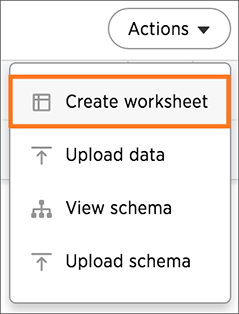
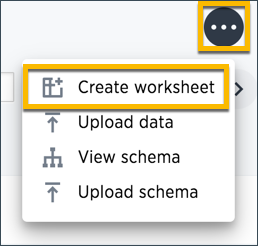
WIP Views

diff --git a/_complex-search/about-query-on-query.md b/_complex-search/about-query-on-query.md
@@ -7,13 +7,13 @@ summary: "If you want to search on top of another search, try saving your search
 sidebar: mydoc_sidebar
 permalink: /:collection/:path.html
 ---
-If you want to use the results of a search as the starting point for other searches, you can save the initial search as a view. Views are similar to tables. One important difference is that the search that makes up a view gets computed each time the view is used. However, you can materialize a view, so its data gets stored. When materialized, a view becomes much like a table, with the same fast performance users expect when searching.
+If you want to use the results of a search as the starting point for other searches, you can save the initial search as a view. Views are similar to tables. One important difference is that the search that makes up a view gets computed each time the view is used. However, you can [materialize a view]({{ site.baseurl }}/admin/loading/materialized_views.html), so its data gets stored in memory. When materialized, a view becomes much like a table, with the same fast performance users expect when searching.
 
 You may have noticed that when you do a search on a data source, ThoughtSpot is only able to aggregate one
 column by one other column. Because of this, you may come across searches you
 can't do in one pass, because they are essentially nested queries. But you can
 create the equivalent of nested queries using a view, which is
-essentially an answer that you have saved for the purpose of building other searches on top of it.
+an answer that you have saved for the purpose of building other searches on top of it.
 
 You can use a view just like any other data source. You
 can even link it to other sources by defining a relationship. When you save an
@@ -21,9 +21,9 @@ answer as a view, and then use it as a source in a new search, it is
 similar to doing a nested query in SQL, only much easier to create.
 
 To create a view, you must belong to a group that has the
-privilege **Has administration privileges** or **Can Manage Data**. If you are
+privilege **Can administer ThoughtSpot** or **Can manage data**. If you are
 not able to create views, contact your administrator and request
-the **Can Manage Data** privilege.
+the **Can manage data** privilege.
 
 ## View workflow
 
@@ -35,25 +35,21 @@ save your first answer as a view, certain explorations like this won't be
 possible. If you want to do this, here are the steps at a high level:
 
 1. Create the first search, and [save it as a view](create-aggregated-worksheet.html#).
-2. Link your view to any other data sources you'll need.
+2. [Link]({{ site.baseurl }}/admin/data_modeling/create-new-relationship.html#) your view to any other data sources you'll need or [define joins]({{ site.baseurl }}/admin/loading/constraints.html#}}).
 3. Create a new search that includes your view and the other sources you linked with it.
-4. You may want to create a new worksheet that includes all these data sources.
+4. You may want to [create a new worksheet]({{ site.baseurl }}/admin/worksheets/about-worksheets.html#}}) that includes all these data sources.
 
-    This will make it easier for people to search using your
+    Creating a worksheet will make it easier for people to search using your
     view and any related tables.
 
 ## Best practices for using views
 
-Only users with administrative privileges are able to create views and link them. Users that create views should keep in
-mind best practices for creating a worksheet and the boundaries around the final
+Only users with administrative or data management privileges can create views and link them. Users that create views should keep in mind best practices for creating a worksheet and the boundaries around the final
 worksheet size.
 
-You can't link a view with a sharded table. If you do this and
-try to search on it, you will get an error.
-
 To be able to join a view with a base table, your installation
-must be configured to allow the behavior. The view cannot have
-more than 5 tables involved. Moreover, the number of rows in the
+must be configured to allow this. The view cannot have
+more than 5 tables involved, and the number of rows in the
 view cannot be greater than 1000.
 
 The order of the objects being linked (joined) matters, this is because joins are
@@ -63,13 +59,14 @@ second (right) position.
 
 For the best performance, views should have 50 or fewer
 columns and no more than 10 million rows. Exceeding these boundaries can make
-your view slow or error prone.
+your view slow. You can remedy this by materializing it.
 
 You can use an ETL (extract, transform, load) process to circumvent these
 limitations.
 
 ## Related Information
 
+-   [More view scenario examples]({{ site.baseurl }}/complex-search/more-example-scenarios.html)
 -   [Save a search as a view]({{ site.baseurl }}/complex-search/create-aggregated-worksheet.html)  
 -   [Constraints]({{ site.baseurl }}/admin/loading/constraints.html)
 -   [Materialized views]({{ site.baseurl }}/admin/loading/materialized-views.html)

diff --git a/_complex-search/more-example-scenarios.md b/_complex-search/more-example-scenarios.md
@@ -5,24 +5,34 @@ last_updated: tbd
 sidebar: mydoc_sidebar
 permalink: /:collection/:path.html
 ---
-Here are three common examples of when you would need to use a view.
+Here are three common examples of when you would want to use a view.
 
 ## Example 1
 
-The first example involves creating a view with a default filter. Say you want to create a view that only shows data for a particular US state. In your search, enter `customer state = texas`. Then click **Actions**, and select **Save as view**. Give your view a name, then click **Save** to create it.
+h1. Example 1: Search a filtered subset
 
-Now you have a view that only contains data that pertains to Texas. You can share this vies with others. Another popular example of this concept includes creating a worksheet with only active employee data.
+Let's say you have a table with all the sales transactions for each customer. You want to find high value customers (those who have spent a certain amount of money in the last year). Then you want to do some further analysis on these high value customers, like the count by region. Here you essentially need to sum up the sales per customer, filter by that sum to get the top customers, and then do a count, making it two levels of aggregation. A single search can do only one level of aggregation.
+
+However, a search can calculate the initial sum and filter within it to get the highest value customers. Then you can save that result as a view. Joining the view to some other tables, like the customer dimension, allows you to do the count and other similar analyses using the view along with the other tables.
 
 ## Example 2
 
-The second example involves joining two views. Say you want to plot the revenue of the top five states over time. Search for `revenue`, `store state`, and `top 5`. Save this answer a view called `Top 5 states`. Then start another search with the tokens `revenue`, store `state`, and `date`. Save this answer as a view called `Total monthly purchases`.
+h1. Example 2: Cohort analysis
 
-Now join these two views, so they can be searched together. Navigate to the **DATA** tab and make a relationship between the two views, on the store state column.
+This example is similar to the previous example, except that it involves a more complex filter, called a cohort. You might create a search to find customers who bought product A, but did not buy product B.
 
-To start a new search, select your two views as data sources, selecting the appropriate columns: store `state` from `Top 5 State`s, and `date` and `total sales` from `Total monthly Purchases`. You will only see data for the top five revenue states.
+First, you would have to perform searches for total sales by customer for both A and B, and create views for both. Then join these two views back in an outer join looking for conditions where the A and B join values are null.
+
+This example could also be solved in a single search by using [conditional formulas]({{ site.baseurl }}/advanced-search/formulas/conditional-sum.html#) to determine the desired group (or cohort) of customers as defined by their buying behavior, and then doing the analysis on this group.
 
 ## Example 3
 
-The third example involves creating a search to find customers who bought product A, but did not buy product B. This example can also be done using [conditional formulas]({{ site.baseurl }}/advanced-search/formulas/conditional-sum.html#).
+h1. Example 3: Combining aggregated sources
 
-First, you would have to perform searches for total sales by customer for both A and B, and create views for both. Then join these two views back in an outer join looking for conditions where the A and B join values are null.
+If you do a lot of your analysis in the aggregate, like at the quarterly level, you may be challenged when trying to combine this aggregated data from different sources. For example, you may want to combine three different quarterly views from SalesForce - Pipeline, Bookings, and Sales Activity to create a comprehensive analysis of each region's performance. Joining the quarterly views together in a worksheet enables you to do this type of analysis easily.
+
+## Example 4
+
+h1. Example 4: Lightweight data transformation
+
+You may have a table with separate columns for people's first name and last name. You could use a concat formula to create a single column with first name, a space, and last name. But using this formula could make performance slow, since that column would always be calculated on the fly when searching. In this case, creating a view using the concatenate formula and materializing it will improve performance when searching this data.

diff --git a/_complex-search/do-query-on-query.md b/_complex-search/do-query-on-query.md
@@ -1,7 +1,7 @@
 ---
 title: [Create a search from a view]
 keywords: tbd
-last_updated: tbd
+last_updated: 11/1/2018
 sidebar: mydoc_sidebar
 permalink: /:collection/:path.html
 ---
@@ -9,17 +9,17 @@ After creating a view and linking it to related data, you're ready to create you
 
 1. Click the search icon, and select **Data Source**. Choose your linked sources.
 
-     ![]({{ site.baseurl }}/images/select_sources_query_on_query.png "Select sources")
+     ![]({{ site.baseurl }}/images/select_sources_view.png "Select sources")
 
-2. Do a search using columns from the linked sources, including any aggregations you created.
+2. Do a search using columns from the linked sources.
 3. Test the result, to make sure it’s what you expect.
     If your search shows no data found or doesn't look right to you, it is possible that one of the links between your sources was made on the incorrect column. Check the relationships you created and try linking using a different column, to see if that gives the expected search results.
-4. Once you have the expected answer, you can create a worksheet to make it easier for you and other people to use. To do this, click the **DATA** icon.
-5. Click the **Actions** icon from the upper right side of the screen
+4. Once you have the expected answer, you can create a worksheet to make it easier for you and other people to use. To do this, click **Data**.
+5. Click the three dot icon on the upper right side of the screen.
 6. Select **Create worksheet**.
 
     ![]({{ site.baseurl }}/images/worksheet_create_icon.png)
 
 7. Choose your view and any other tables it is linked to using **Choose Sources**.
 8. You may need to rename some columns appropriately for searching.
-9. Share the worksheet with the appropriate users and groups.
+9. Save the worksheet and share it with the appropriate users and groups.

diff --git a/_admin/loading/materialized-views.md b/_admin/loading/materialized-views.md
@@ -7,15 +7,13 @@ toc: false
 sidebar: mydoc_sidebar
 permalink: /:collection/:path.html
 ---
-Views can become slow as your data volume and the number of views stacked on top of one another grow. This happens because each view is computed on the fly when doing a search on it. To improve the performance of a view, you can materialize it. Materializing pre-computes the view and stores it in memory, just like a table.
+Views can become slow as your data volume and the number of views stacked on top of one another grow. This happens because when doing a search, each view is computed on the fly. To improve the performance of a view, you can materialize it. Materializing pre-computes the view and stores it in memory, just like a table. You can expect a materialized view to be three to six times faster than a view that is not materialized, on average.
 
 To materialize a view, you must have the [Administrator privilege]({{ site.baseurl }}/admin/users-groups/about-users-groups.html).
 
 The number of materialized views you can create is limited to 50, because materialized views take up space in memory.
 
 Once materialized, a view can have one of three states. You can see the status of a view by selecting **Data**, clicking on **Views**, and finding your view in the list. The status is shown next to the name of your view.
-
-![]({{ site.baseurl }}/images/views-list.png "Views listing")
 
 These are the statuses a view can have:
 

diff --git a/_complex-search/create-aggregated-worksheet.md b/_complex-search/create-aggregated-worksheet.md
@@ -1,7 +1,7 @@
 ---
 title: [Save a search as a view]
 keywords: view
-last_updated: tbd
+last_updated: 11/1/2018
 sidebar: mydoc_sidebar
 permalink: /:collection/:path.html
 ---
@@ -17,4 +17,12 @@ This procedure walks you through creating a view from a search. To create a view
 
 3. Save the answer as a **View**.
 
-     ![]({{ site.baseurl }}/images/save_as_worksheet.png "Save as a View")
+     ![]({{ site.baseurl }}/images/save_as_view.png "Save as a View")
+
+4. Give the view a name and save it.
+
+     ![]({{ site.baseurl }}/images/save_view_dialog.png "Name the View")
+
+5. [Link]({{ site.baseurl }}/admin/data_modeling/create-new-relationship.html#) your view to any other data sources you'll need or [define joins]({{ site.baseurl }}/admin/loading/constraints.html#}}).
+
+At this point the view has been saved, but you may also want to [materialize the view]({{ site.baseurl }}/admin/loading/materialized_views.html), to improve its performance when searching.
